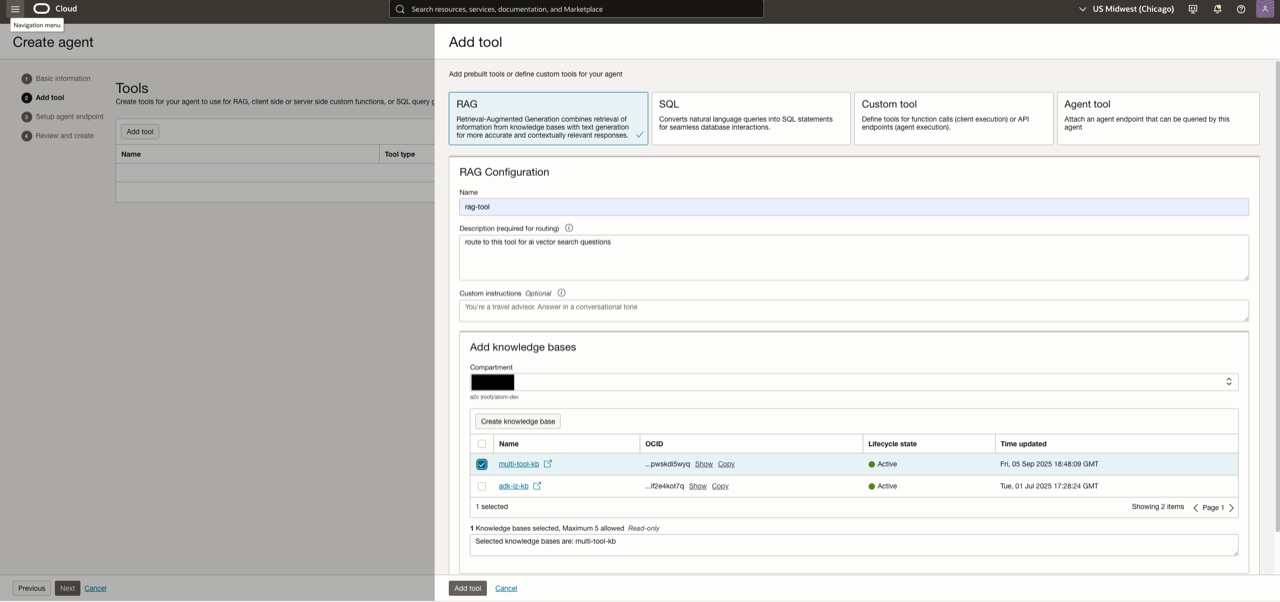
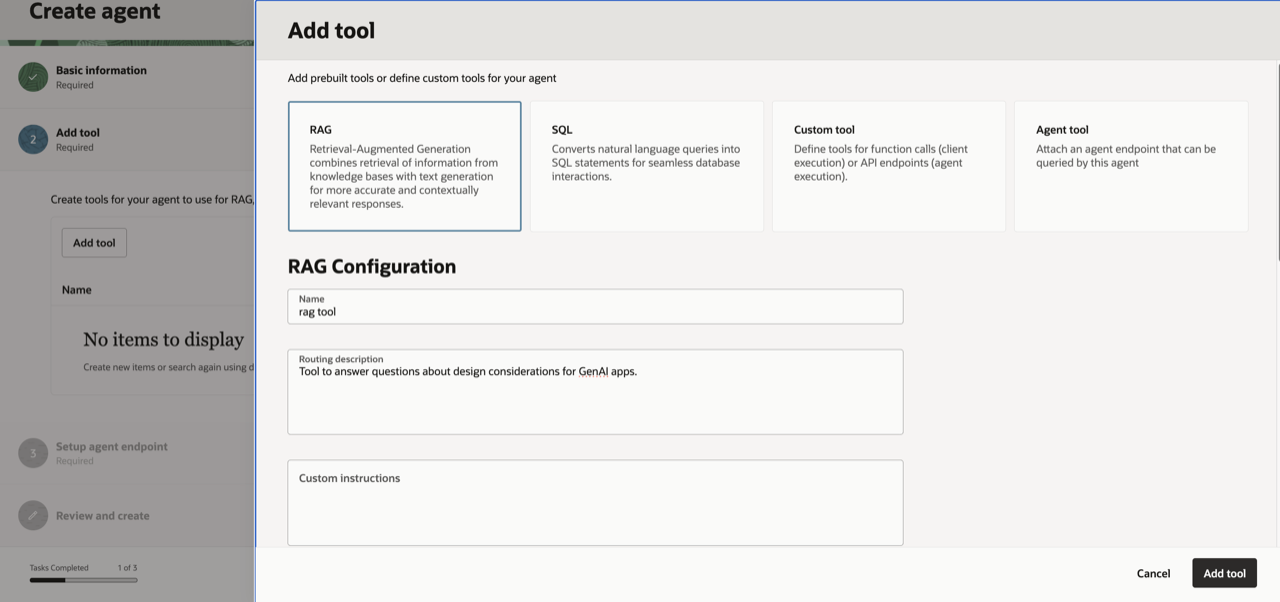
Multi Tool QA Image Updates & Fixes (#539)
* Multi Tool QA

Multi Tool QA

* Updated Architecture Diagram

Updated Architecture Diagram

* Removed Unreferenced Images

Removed unreferenced images

* QA Fixes

QA Fixes

* Livelab Title Update

Update Livelab title for AI world

* Lab Sandbox QA

Lab Sandbox QA

* QA Fixes

QA Fixes

* QA Fixes

QA Fixes

* Instruction QA updates

* Image Size Reduction

Reduced image size

* Minor QA Fixes

Minor QA Fixes

* Added/updated images for workshop

Added & updated images for workshop to clarify instructions.

* Fixed Image Size

Fixed Image Size

diff --git a/atom-agent-multi-tool/deploy-agent-tools/deploy-agent-tools.md b/atom-agent-multi-tool/deploy-agent-tools/deploy-agent-tools.md
@@ -35,7 +35,7 @@ This lab assumes you have:
 
     ![Screenshot showing how to navigate to the Agents service from the main menu](./images/console/agents-service-navigation.png)
 
-2. Edit your agent and add the following routing instructions:
+2. Edit your agent and add the following routing instruction if not added already:
 
     ```text
      <copy>
@@ -135,6 +135,16 @@ If you are using your own tenancy, create and validate a Database Tools connecti
 
 1. Navigate to the SQL Worksheet for the database you will use with the SQL tool and run the following statements. In the LiveLabs sandbox, open SQL Worksheet through the pre-provisioned Database Tools connection.
 
+    ![DB Connection](images/console/db-conn.png)
+
+    Select the existing db connection 
+
+    ![DB Connection](images/console/db-conn-2.png)
+
+    Select SQL Worksheet
+
+    ![SQL Worksheet](images/sqltool/sql-worksheet.png)
+
     > **Note:** The sandbox's pre-provisioned sample tables are not required for this workshop. Create the separate `Employees` table below (or use your own equivalent table) and leave the pre-provisioned tables unchanged.
 
     ```text
@@ -147,6 +157,10 @@ If you are using your own tenancy, create and validate a Database Tools connecti
     );
     </copy>
     ```
+
+    Highlight and run the SQL block 
+
+    ![Run SQL](images/sqltool/run-sql.png)
 
     - Populate your table with the following data
 
@@ -163,6 +177,8 @@ If you are using your own tenancy, create and validate a Database Tools connecti
     </copy>
     ```
 
+    Highlight and run the DDL to insert the sample records. 
+
     > **Note** If you use your own table, large queries can cause timeouts in the agent service. Try filtering your results to avoid timeouts.
 
 ## Task 6: Create SQL Tool
@@ -170,7 +186,16 @@ If you are using your own tenancy, create and validate a Database Tools connecti
 
     ![Navigate to Agent](./images/console/agents-service-navigation.png)
 
-2. Set the tool name to `employee-sql`, add a description such as `Retrieve employee information from the Employees table`, and paste the database schema.
+2. Set the tool name to `employee-sql`, add a description such as 
+
+
+    ```text
+    <copy>
+    Retrieve employee information from the Employees table
+    </copy>
+    ```
+
+    and paste the database schema.
 
     > **Note** Make sure to use the same schema defined in the previous task.
 
@@ -185,6 +210,8 @@ If you are using your own tenancy, create and validate a Database Tools connecti
     </copy>
     ```
 
+    ![Create SQL Tool](images/sqltool/create-sql-tool.png)
+
     > **Note** If using your own table, run the following to inspect its schema:
 
     ```sql
@@ -193,8 +220,15 @@ If you are using your own tenancy, create and validate a Database Tools connecti
 
     in the SQL Worksheet.
 
-3. Select Oracle SQL as the dialect and select the Database Tools connection from Task 4. In the LiveLabs sandbox, select the pre-provisioned connection. Enable SQL Execution and self correction.
+3. Select Oracle SQL as the dialect and select the Database Tools connection from Task 4. In the LiveLabs sandbox, select the pre-provisioned connection. 
+
 4. Select **Test connection** and confirm that the test succeeds.
+
+    ![Create SQL Tool](images/sqltool/create-sql-tool-2.png)
+
+    Enable SQL Execution and self correction.
+
+    ![Create SQL Tool](images/sqltool/create-sql-tool-3.png)
 
 5. Create the tool.
 
@@ -206,7 +240,13 @@ If you are using your own tenancy, create and validate a Database Tools connecti
 
 ## Task 7: Create a Weather Tool
 
-1. Navigate to the agent tools and select **Create tool** > **Custom tool**. Under Tool configuration, select **Function calling**, then create a function named `get_weather`.
+1. Navigate to the agent tools and select **Create tool** > **Custom tool**. 
+
+    ![Create Weather Tool](images/weather/create-weather-tool.png)
+
+    ![Create Weather Tool](images/weather/create-weather-2.png)
+
+    Under Tool configuration, select **Function calling**, then create a function named `get_weather`.
 
 2. Give the function the following description:
 
@@ -234,6 +274,8 @@ If you are using your own tenancy, create and validate a Database Tools connecti
     </copy>
     ```
 
+    ![Create Weather Tool](images/weather/create-weather-3.png)
+
 4. Create the tool and wait for it to become active.
 
     > **Note:** This workshop configures the function contract only; it doesn't deploy a weather-service implementation. A weather prompt verifies that the agent selects `get_weather` and passes a `location` argument. A production application must execute the function and return its result to the agent.
@@ -247,6 +289,8 @@ If you are using your own tenancy, create and validate a Database Tools connecti
     * Ask `List all employees` to verify the `employee-sql` tool and the committed sample data.
     * Ask about the weather in a location to verify that the agent selects `get_weather` and supplies a location argument.
     * Ask a general question, such as `What is an autonomous agent?`, to verify general chat without a tool.
+
+    ![Chat with your agent](images/general-chat/general-chat.png)
 
 2. If a prompt selects the wrong tool, refine the tool description or the routing instructions in Task 1, then test again.
 
@@ -283,4 +327,4 @@ If you are using your own tenancy:
   * **Raj Arora**, Master Principal Analytics Cloud Architect
 
 **Last Updated By/Date**
-* **Luke Farley**, Senior Cloud Engineer, October 2026
+* **Luke Farley**, Senior Cloud Engineer, November 2026

diff --git a/atom-agent-multi-tool/provision-agent/provision-agent.md b/atom-agent-multi-tool/provision-agent/provision-agent.md
@@ -112,25 +112,67 @@ This task will help you to create Oracle Generative AI Agent’s Knowledge Base 
 
 This task will help you to create Oracle Generative AI Agent under your chosen compartment.
 
-1. Locate Agents in the left panel, select the correct Compartment.
+1. Locate Agents in the left panel
 
-    Then click on “Create agent” button
+    ![GenAI Agent](images/agent/agent_nav.png)
+
+    Then click on “Create agent” button, while in the correct Compartment.
 
     ![agent](images/agent/agent.png)
 
-2. Specify the agent name, ensure the correct compartment is selected and indicate a suitable welcome message
+2. Specify the agent name, ensure the correct compartment is selected and indicate a suitable welcome message & routing instructions: 
 
-    Select Add tool > Choose RAG tool
+    ** Welcome Message ** 
+    ```text
+     <copy>
+      Hello, how may I help?
+     </copy>
+    ```
+
+    ** Routing Instructions ** 
+
+    ```text
+     <copy>
+      You are a helpful assistant. If a user asks about design considerations for generative AI applications, use the RAG tool. If a user asks about employees, use the employee-sql tool. If a user asks about the weather, use the get_weather tool. If a user asks a general question, use your general knowledge, no tools.
+     </copy>
+    ```
+
+    ![Create Agent](images/agent/create_agent.png)
+
+    Select Next > Add tool > Choose RAG tool
+
+    ![Create Tool](images/agent/create-tool-0.png)
+
+    Select the Knowledge Base that you created in the previous task. You can attach it even if it is still provisioning. For the RAG tool description, use: 
+    
+    ```text
+     <copy>
+    Tool to answer questions about design considerations for GenAI apps.
+    </copy>
+    ```
+
+    The custom instructions can be left blank. 
 
     ![Create Tool](images/agent/create-tool.png)
 
-    Select the Knowledge Base that you created in the previous task. You can attach it even if it is still provisioning. For the RAG tool description, use: **Tool to answer questions about design considerations for GenAI apps.** Providing the Welcome message is optional.
 
-    Click the “Create” button.
+    Click the "Add tool" button.
 
     ![agent creation wizard](images/agent/agent_wizard.png)
 
     > **Note** The other agent tools will be configured in the next lab.
+
+    ![Add Tool](images/agent/add-tool.png)
+
+    Click Next and keep the default guard rails: 
+
+    ![Guard Rails](images/agent/guard-rails-1.png)
+
+    ![Guard Rails](images/agent/guard-rails-2.png)
+
+    Click Next, review the config and select "Create Agent". Click accept on the license agreement popup if using the llama model.
+
+    ![Create Agent](images/agent/create-agent-2.png)
 
 3. In few minutes the status of recently created Agent will change from Creating to Active
 
@@ -169,4 +211,4 @@ This task will help you to create Oracle Generative AI Agent under your chosen c
 * **Raj Arora**, Master Principal Analytics Cloud Architect
 
 **Last Updated By/Date:**
-* **Luke Farley**, Senior Cloud Engineer, October 2026
+* **Luke Farley**, Senior Cloud Engineer, November 2026

diff --git a/atom-agent-multi-tool/introduction/introduction.md b/atom-agent-multi-tool/introduction/introduction.md
@@ -99,4 +99,4 @@ For your own tenancy, ask a tenancy administrator to configure the following acc
 * **Abhinav Jain**, Senior Cloud Engineer
 * **Yanir Shahak**, Senior Principal Software Engineer
 
-**Last Updated By/Date:** Luke Farley, Senior Cloud Engineer, October 2026
+**Last Updated By/Date:** Luke Farley, Senior Cloud Engineer, November 2026
